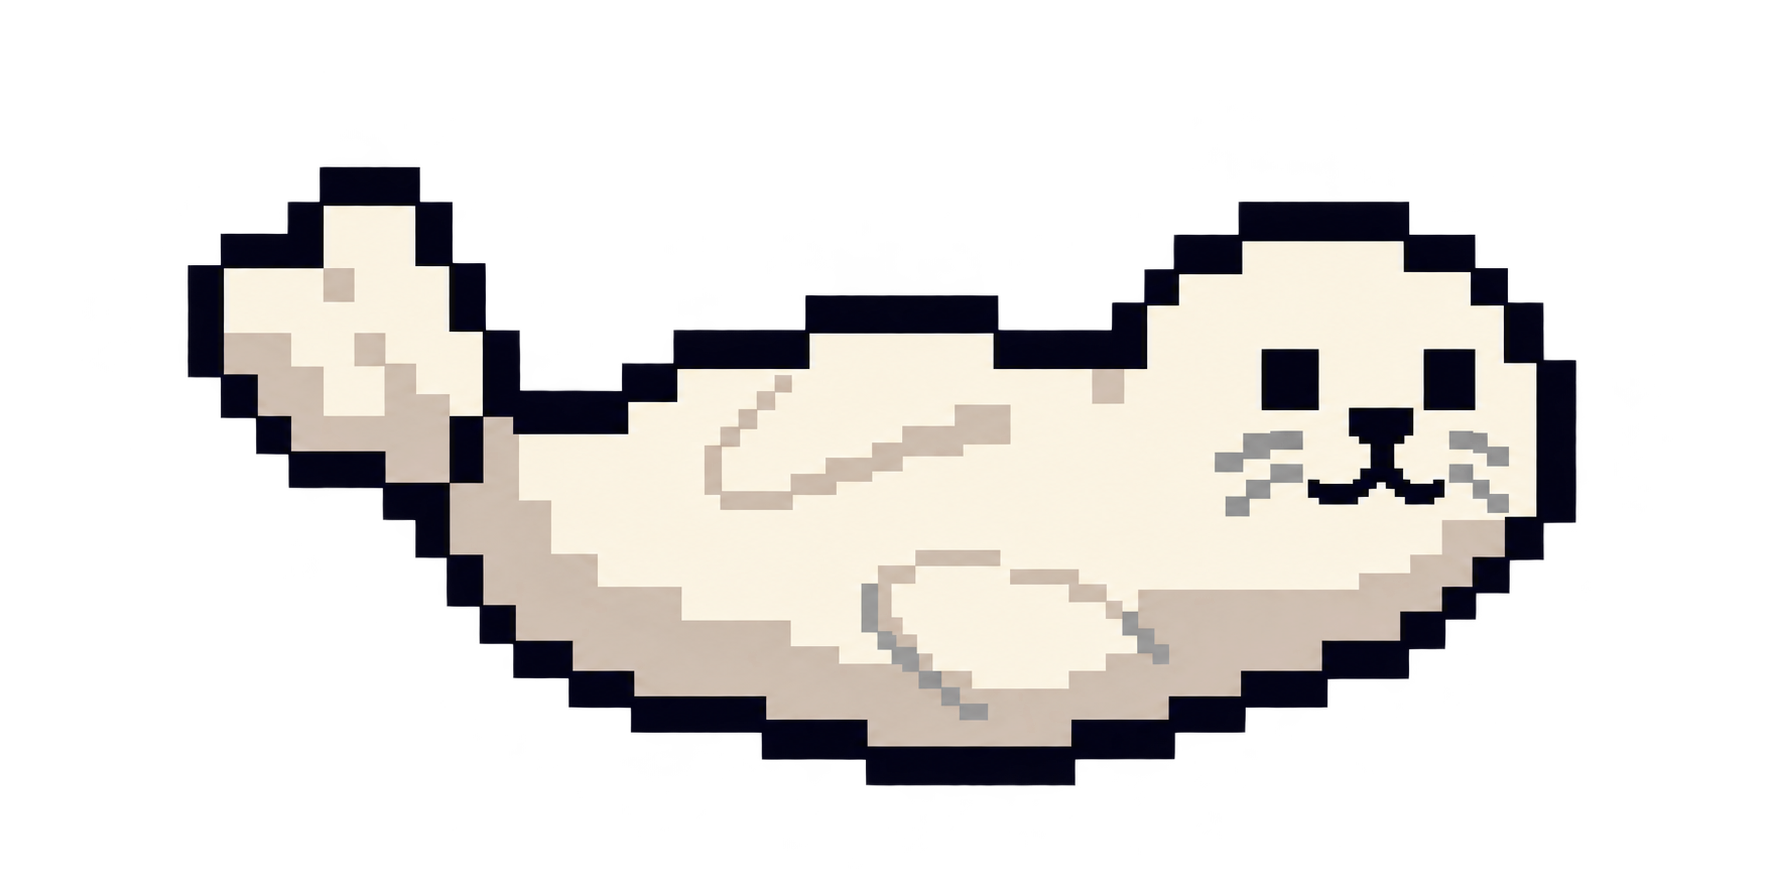
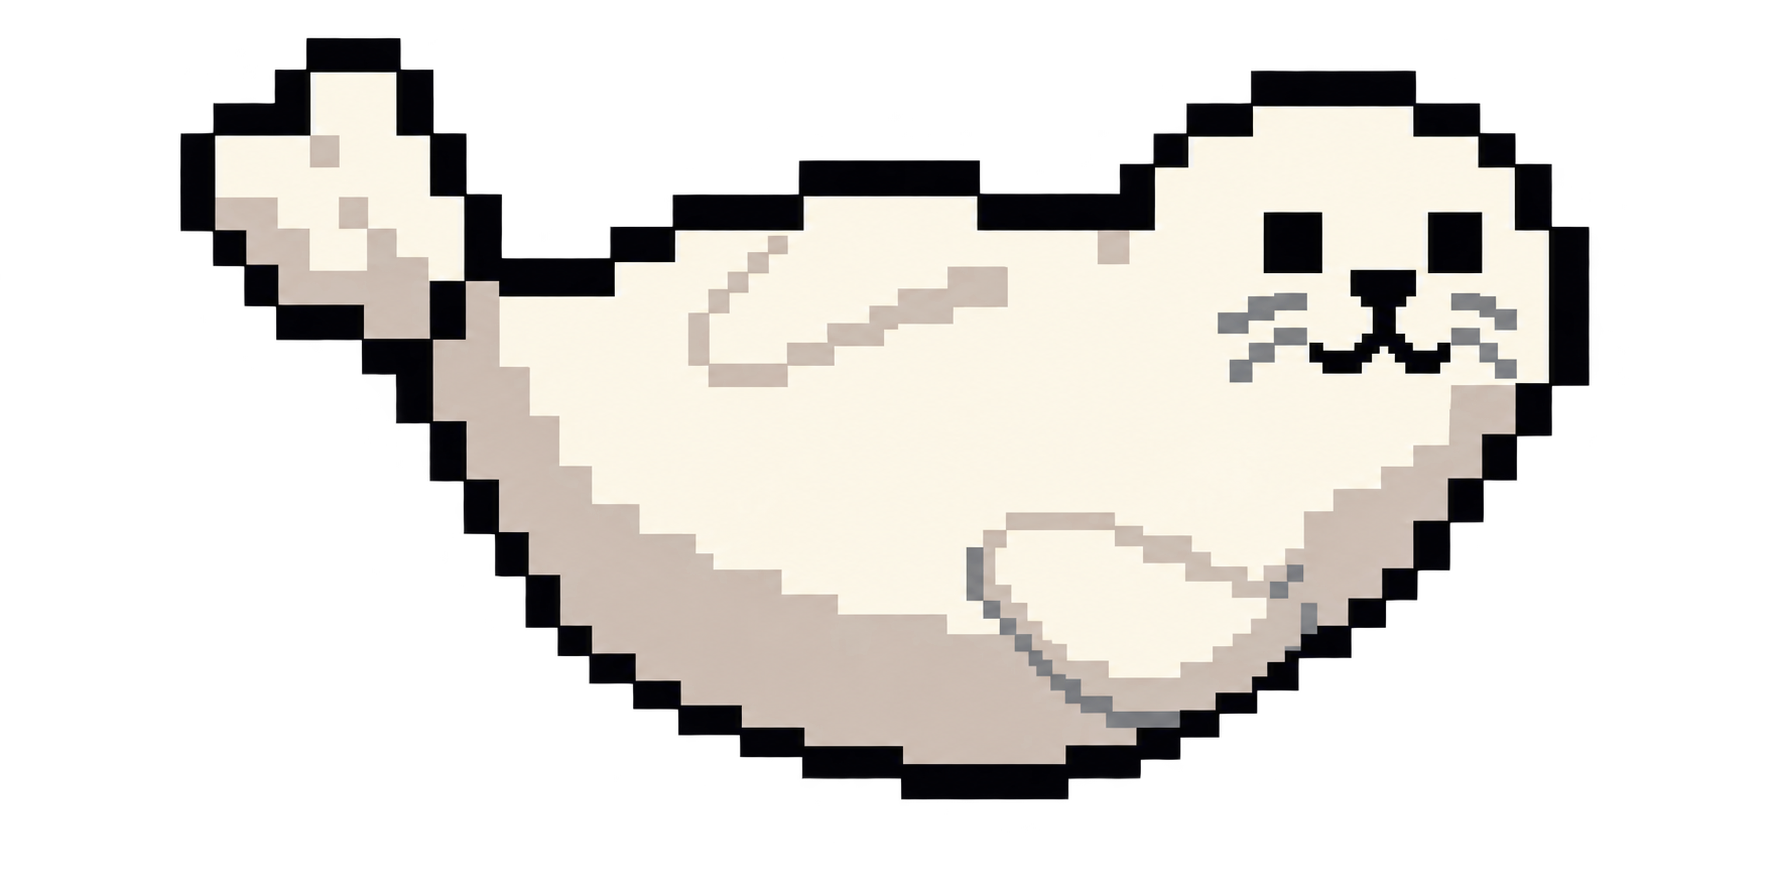
Update seal sprites with thicker belly and tail motion

Changed region(s): [[0.093, 0.0304, 0.8991, 0.9132]]

diff --git a/game.js b/game.js
@@ -67,7 +67,7 @@
     startButton.disabled = true;
     startButton.textContent = '素材載入失敗，請重新整理';
   }
-  for (const [key, src] of Object.entries({lift:'assets/seal-lift.png', slap:'assets/seal-slap.png', hit:'assets/seal-collision.png'})) {
+  for (const [key, src] of Object.entries({lift:'assets/seal-lift.png?v=thick-1', slap:'assets/seal-slap.png?v=thick-1', hit:'assets/seal-collision.png?v=thick-1'})) {
     assets[key] = new Image();
     assets[key].onload = () => {
       if(key==='hit'){assetLoaded(key);return;}

diff --git a/index.html b/index.html
@@ -28,6 +28,6 @@
       <div class="pause-cover" id="pauseCover"><div>⏸<br><small>已暫停<br>點一下繼續</small></div></div>
     </section>
   </main>
-  <script src="game.js?v=sound-4"></script>
+  <script src="game.js?v=seal-thick-1"></script>
 </body>
 </html>
